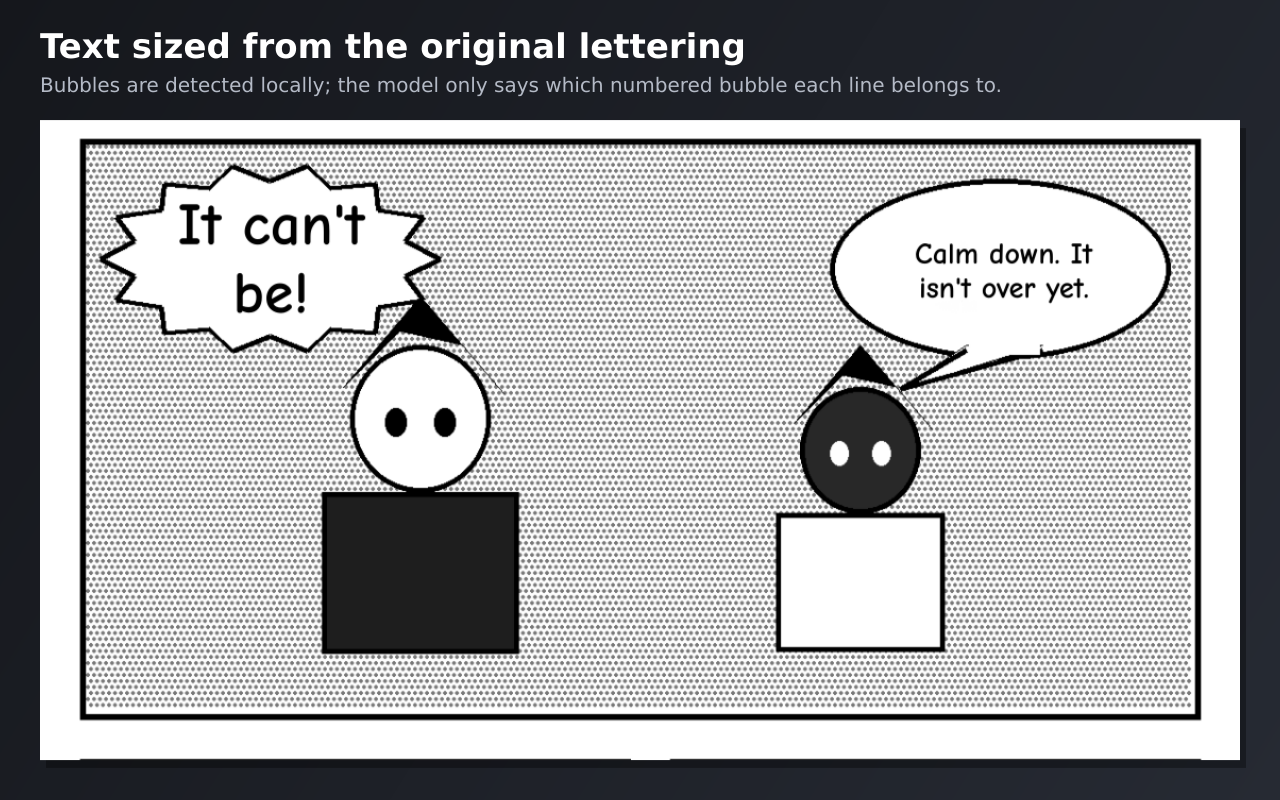
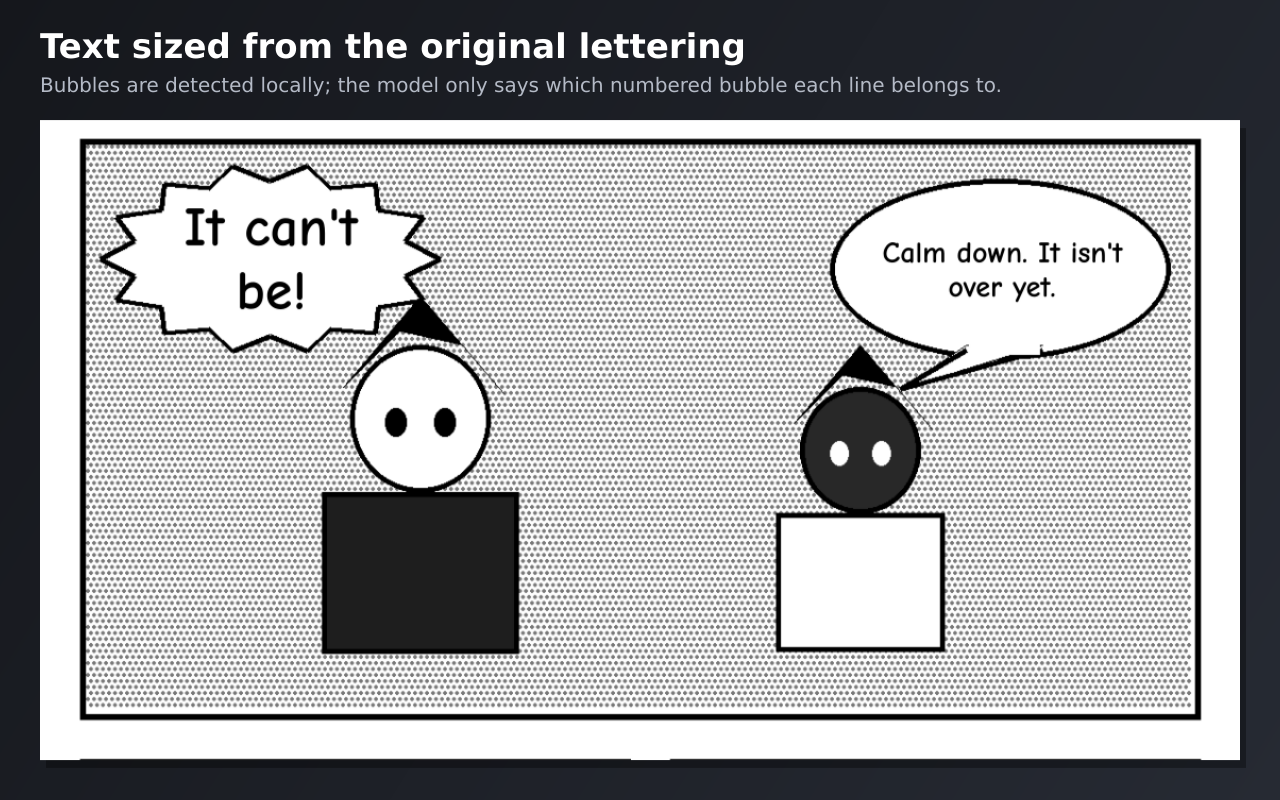
3.0.0 store readiness: listing, screenshots, privacy policy, release steps
- Store listing text for 3.0: the eraser's inpainting models, lettering to the bubble's shape, the
  screen's own resolution, keyboard editing; no claim about plans' API credits; the remote-code row
  names the inpainting models; "What's new in 3.0.0".
- The five screenshots made again with the 3.0 engine, erased with the learned fill the extension
  runs on the CPU (Telea alone smudged the screentone the extension doesn't).
- Privacy policy: a line given back untranslated is sent again as text.
- The store zip never carries a developer's dev-reload.txt.
- RELEASE-CHECKLIST: the steps for releasing 3.0.0 publicly, with what was checked.

Claude-Session: https://claude.ai/code/session_01HC7DG1xgeqgY9rhdzbcHRJ

Changed region(s): [[0.6875, 0.2812, 0.875, 0.375], [0.125, 0.25, 0.2812, 0.3125], [0.1875, 0.3438, 0.25, 0.4062]]

diff --git a/web/privacy.html b/web/privacy.html
@@ -16,7 +16,7 @@
 </head>
 <body>
 <h1>Gytakusub — Privacy Policy</h1>
-<p class="muted">Effective 8 November 2026; chapter fetcher section added 9 November 2026; agreement, site access and what is sent with each page updated 17 November 2026 (extension 2.7.0). Applies to the Gytakusub browser extension and the Gytakusub web app (gywreb.github.io/gytakusub). Gytakusub is an independent project, not made by or affiliated with Anthropic.</p>
+<p class="muted">Effective 8 November 2026; chapter fetcher section added 9 November 2026; agreement, site access and what is sent with each page updated 17 November 2026 (extension 2.7.0); a line given back untranslated, sent again as text, noted 23 November 2026 (3.0.0). Applies to the Gytakusub browser extension and the Gytakusub web app (gywreb.github.io/gytakusub). Gytakusub is an independent project, not made by or affiliated with Anthropic.</p>
 
 <h2>Summary</h2>
 <p>Gytakusub has no server and no account system. The developer never receives your data. The only data that leaves your device is sent, by your browser, directly to Anthropic's Claude API using <strong>your own API key</strong>, in order to translate the image you asked to translate.</p>
@@ -24,7 +24,7 @@
 
 <h2>What is processed, and where</h2>
 <ul>
-  <li><strong>Page images, and what goes with them.</strong> When you translate an image (by hovering and clicking, pressing a shortcut, enabling auto-translate on a site you chose, or pasting a screenshot into the web app), a downscaled copy of that image, cut into slices for long pages, is sent to <code>api.anthropic.com</code> so the model can read and translate the text. With it go your target language, your glossary and any custom instructions you wrote, the names Claude already translated earlier in the same chapter (so they stay consistent), and, if <em>Chapter context</em> is on, the last translated lines of that chapter. The page's address is not sent. Anthropic's handling of API inputs is governed by <a href="https://www.anthropic.com/legal/commercial-terms">Anthropic's commercial terms</a> and privacy policy. The developer of Gytakusub has no access to these requests.</li>
+  <li><strong>Page images, and what goes with them.</strong> When you translate an image (by hovering and clicking, pressing a shortcut, enabling auto-translate on a site you chose, or pasting a screenshot into the web app), a downscaled copy of that image, cut into slices for long pages, is sent to <code>api.anthropic.com</code> so the model can read and translate the text. With it go your target language, your glossary and any custom instructions you wrote, the names Claude already translated earlier in the same chapter (so they stay consistent), and, if <em>Chapter context</em> is on, the last translated lines of that chapter. When Claude gives a line back in its original language, the text Claude read for that line is sent once more, as text, to translate it. The page's address is not sent. Anthropic's handling of API inputs is governed by <a href="https://www.anthropic.com/legal/commercial-terms">Anthropic's commercial terms</a> and privacy policy. The developer of Gytakusub has no access to these requests.</li>
   <li><strong>Your API key.</strong> Stored in your browser's extension storage (device-local by default; optionally in your browser's sync storage if you turn that on) or, in the web app, in the browser's localStorage. It is sent only to <code>api.anthropic.com</code> as the authentication header.</li>
   <li><strong>Settings, glossary, and chapter context.</strong> Your model choice, target language, glossary, list of enabled sites, and the names and recent translated lines used for consistency are stored locally in the browser (and in browser sync storage for settings, if your browser syncs). Chapter context is per tab and discarded when the tab closes.</li>
   <li><strong>Claude usage figures.</strong> For each Claude answer, the model name, its token counts (input, output, cache reads and writes) and, when the browser can read them, Anthropic's rate-limit headers are kept in the extension's local storage or the web app's localStorage, for at most 62 days, to show what translating costs (an estimate from Anthropic's published prices). They come from Anthropic's own answers to your requests, are never sent anywhere, and can be cleared at any time (Options or Settings → Claude usage → Clear usage history).</li>

diff --git a/store/LISTING.md b/store/LISTING.md
@@ -1,6 +1,6 @@
 # Chrome Web Store listing — Gytakusub
 
-Last updated for 2.9.0 (lettering in every listed language).
+Last updated for 3.0.0 (the core, measured).
 
 Copy each block into the matching field of the Developer Dashboard. Keep the wording: it is written to match what the extension actually does (reviewers compare listing claims against behaviour) and to stay generic about content sources.
 
@@ -15,10 +15,12 @@ Translate manga and comic pages in place, right on the page, using your own Clau
 
 **Description**
 ```
-Gytakusub re-letters comic and manga pages in your browser. Hover a page and click Translate, press Alt+T to translate everything on screen, or turn on auto-translate for a site you read regularly. Speech bubbles are detected on your device, the original lettering is replaced inside the bubble, and the translation is typeset to fit — artwork stays untouched.
+Gytakusub re-letters comic and manga pages in your browser. Hover a page and click Translate, press Alt+T to translate everything on screen, or turn on auto-translate for a site you read regularly. Speech bubbles are detected on your device, the original lettering is erased, and the translation is lettered into the bubble's shape at the original's size. Sound effects stay as drawn.
 
 HOW IT WORKS
-• Text and speech bubbles are found locally by open-source models (PaddleOCR's text detector and a speech-bubble segmentation model) and OpenCV, all running in your browser — on the graphics card when available. No page content is read except the images you translate.
+• Text and speech bubbles are found locally by open-source models (PaddleOCR's text detector and a speech-bubble segmentation model) and OpenCV, all running in your browser, on the graphics card when available. No page content is read except the images you translate.
+• The original lettering is erased on your device: bubbles keep their own white, screentone is continued, and other surfaces are filled by inpainting models trained on manga.
+• The translation is drawn at your screen's own resolution, and drawn again when you zoom or resize.
 • The image is sent directly from your browser to Anthropic's Claude API using YOUR API key. Gytakusub has no server and never sees your data.
 • Names and recent dialogue are carried from page to page so translations stay consistent through a chapter.
 • Japanese (including vertical text), Korean, Chinese, Spanish, Italian and most other languages → the language you pick: English, Vietnamese, Spanish, Portuguese, Indonesian, French, German, Chinese, Japanese, Korean, Thai and more, or any other you type, lettered in a font that has all its letters.
@@ -32,10 +34,10 @@ YOU STAY IN CONTROL
 • Glossary for names and terms; custom instructions; model choice (Haiku for speed, Sonnet/Opus for difficult pages).
 • Results are cached for the browser session so re-reading costs nothing.
 • See what it costs: your real cost per page for each model, and today's and this month's spend, counted from Claude's own answers to this browser (Settings → What translating costs). To cap spending on every device, it points you to the Console's spend limit.
-• Double-click a translated bubble to correct a line or add a term to the glossary; an option lets you peek at the original by hovering.
+• Double-click a translated line (or press Enter on it) to correct it or add a term to the glossary; an option lets you peek at the original by hovering.
 
 REQUIREMENTS
-You need a Claude API key from platform.claude.com (pay-per-use; Claude Max, Ultra and Team plans include monthly API credits). The key is stored only in your browser.
+You need a Claude API key from platform.claude.com (pay-per-use, billed by Anthropic to your account). The key is stored only in your browser.
 
 PRIVACY
 No analytics, no telemetry, no account. The page images you translate (with your glossary and the chapter's names, for consistency) go to api.anthropic.com only, with your key. Full policy: https://gywreb.github.io/gytakusub/privacy.html
@@ -61,9 +63,14 @@ https://github.com/gywreb/gytakusub/issues
 
 **Graphic assets** (in `store/assets/`)
 - Icon 128×128: `extension/icons/icon128.png`
-- Screenshots 1280×800, in this order: `screenshot-1-before-after.png`, `screenshot-2-closeup.png`, `screenshot-3-how-it-works.png`, `screenshot-4-japanese.png`, `screenshot-5-controls.png` (made by `npm run assets` in `tests/`: 1–4 render test pages through the engine, 5 is the real popup and Options page with demo data)
+- Screenshots 1280×800, in this order: `screenshot-1-before-after.png`, `screenshot-2-closeup.png`, `screenshot-3-how-it-works.png`, `screenshot-4-japanese.png`, `screenshot-5-controls.png` (made by `npm run assets` in `tests/`: 1–4 render test pages through the engine, erased with the learned fill the extension runs on the CPU; 5 is the real popup and Options page with demo data). Made again for 3.0.0: replace all five in the dashboard.
 - Small promo tile 440×280: `promo-small-440x280.png`
 - Marquee 1400×560: optional, not provided
+
+**What's new in 3.0.0** (paste into the version notes if the dashboard asks)
+```
+A cleaner, sharper page. The original lettering is erased by inpainting models trained on manga, so screentone and art continue under it; sound effects and logos stay as drawn. Translations are set to each bubble's shape at the original lettering's size, keep clear of its outline, and are drawn at your screen's own resolution. The same page now comes out the same with or without a graphics card. Long chapters no longer fail partway, and keyboard and screen-reader users can reach and edit every translated line.
+```
 
 **What's new in 2.9.0** (paste into the version notes if the dashboard asks)
 ```
@@ -110,7 +117,7 @@ Translates the text inside comic and manga page images that the user is viewing,
 | `activeTab` | Lets the user invoke the translator on the current tab from the toolbar button or keyboard shortcut without the extension running on every page. |
 | `scripting` | Injects the translator only into the current tab on user request, and registers it for the specific sites the user has enabled in the popup/options. |
 | Optional host permission `<all_urls>` (`optional_host_permissions`; not granted at install) | Requested at runtime, in a click, the first time the user enables a site, starts auto-translate or translates, after a setup page explains why. Comic pages are served from many image CDNs that differ from the page's own domain and block cross-origin reads, so the background worker needs host access to fetch the image the user asked to translate so its pixels can be analysed. It downloads only images (checked by their bytes, capped at 25 MB). The extension does not read or modify any other page content and does not run on sites the user has not enabled or explicitly invoked it on. The user can remove the access in Settings → About. |
-| Remote code | Not used. All code and models are packaged in the extension: OpenCV and ONNX Runtime (WebAssembly), the text-detection model and the speech-bubble model (ONNX files), all loaded from the extension package. The CSP allows `wasm-unsafe-eval`, not `unsafe-eval`. The only network calls are to api.anthropic.com (user's key) and to fetch the image being translated. |
+| Remote code | Not used. All code and models are packaged in the extension: OpenCV and ONNX Runtime (WebAssembly), the text-detection model, the speech-bubble model and the two inpainting models (ONNX files), all loaded from the extension package. The CSP allows `wasm-unsafe-eval`, not `unsafe-eval`. The only network calls are to api.anthropic.com (user's key) and to fetch the image being translated. |
 
 **Data usage disclosures** — tick these, and only these:
 - [x] **Authentication information** — the user's Claude API key, stored locally, transmitted only to api.anthropic.com.

diff --git a/store/RELEASE-CHECKLIST.md b/store/RELEASE-CHECKLIST.md
@@ -2,6 +2,23 @@
 
 Everything below is a one-time account step or a copy-paste from `store/LISTING.md`. Budget: US$5 one-time developer fee; nothing else.
 
+## Releasing 3.0.0, public (the item already exists)
+
+Checked before the PR (23 Nov): the store zip builds (157.8 MB, 201 MB unpacked, 108 files, `manifest.json` at its root; the store takes up to 2 GB), and that exact zip loads in Chromium: the setup page opens on install, and Options, the popup and the setup page load with no errors. The permissions are the same as 2.10.0's, so people updating aren't asked anything new. The listing text, the five screenshots and the privacy policy are updated for 3.0.0.
+
+1. **Merge PR #38**, then wait for both runs on `main`: **Tests** (about 30 min) and **Deploy web app to GitHub Pages**. The deploy after 2.15.0 failed with GitHub's "Deployment failed, try again later"; if this one fails too, open it in Actions and press **Re-run all jobs**.
+2. **The privacy policy is live:** https://gywreb.github.io/gytakusub/privacy.html says "(3.0.0)" in its dates line.
+3. **`node scripts/release.mjs`** from the repo folder. CI tests again and makes the GitHub Release `v3.0.0` with `gytakusub-extension-3.0.0.zip`. Store upload isn't set up, so the zip waits there.
+4. **Try that zip once** in a fresh Brave profile: setup page → I agree → key → Allow access → translate one page.
+5. **Dashboard → the item:** if a version is still in review, ⋮ → **Cancel review**. Then **Package → Upload new package** with the zip.
+6. **Store listing:** paste the new **Description** from `LISTING.md`. Replace **all five screenshots** with the ones in `store/assets/` (made again for 3.0.0). The icon and promo tile are unchanged.
+7. **Privacy practices:** paste the new **Remote code** row (it now names the inpainting models). The other answers are unchanged.
+8. **Test instructions:** a new spend-limited review key (`LISTING.md` → Test instructions). Revoke it after the review.
+9. **Account → Trader status**, if not declared yet (required for public items; your call, see "Going public").
+10. **Distribution:** Visibility **Public**, all regions, free. Then **Submit for review**.
+11. "Pending review" isn't approved. Wait for Google's email; on a rejection, paste it to me verbatim (§ 7).
+12. **After approval:** install from the public listing in a fresh profile and walk through the setup page once.
+
 ## 0. Before you start (5 min)
 - [ ] Load `extension/` unpacked in Brave one more time, open Options → Test key, and translate one page end to end. (CI runs the real extension in headless Chromium, but against a mock API; a real key on a real site is the one check only you can do.)
 - [ ] `git pull` and take the zip from the GitHub Release of the tag you tested (`gytakusub-extension-X.Y.Z.zip`; CI builds it only after the full test suite passes on that tag, and it is `extension/` minus `icon512.png`).
